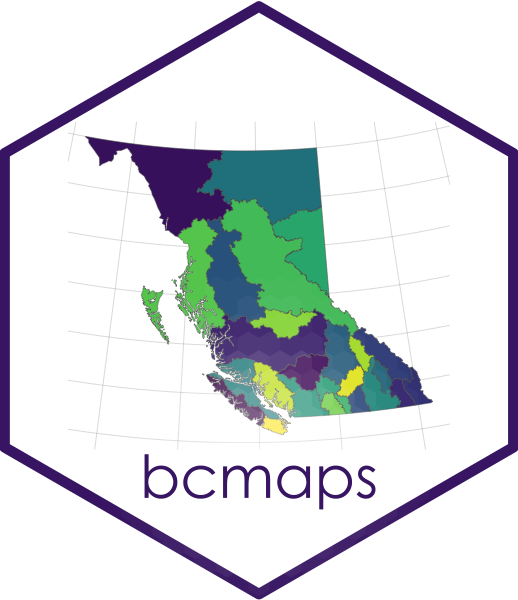
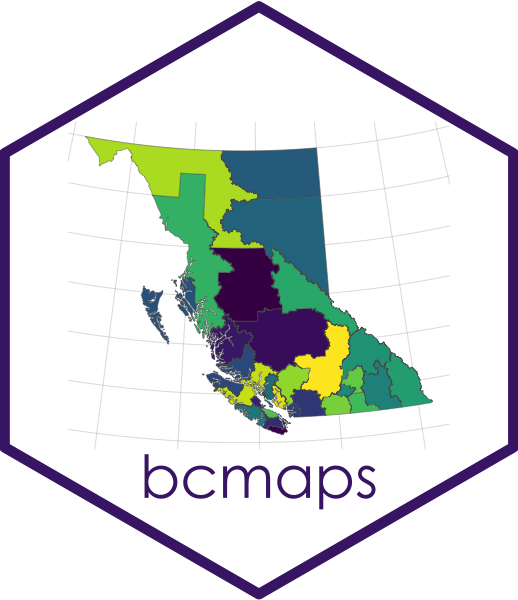
Use Regional Districts in sticker

Changed region(s): [[0.1544, 0.21, 0.834, 0.72], [0.278, 0.48, 0.3089, 0.54], [0.3089, 0.54, 0.3398, 0.57]]

diff --git a/README.md b/README.md
@@ -68,6 +68,25 @@ available_layers()
 #> 16    watercourses_5M       British Columbia watercourses at 1:5M scale.
 #> 17         watersheds  British Columbia Hydrometric Watershed Boundaries
 #> 18      wsc_drainages      Water Survey of Canada Sub-Sub-Drainage Areas
+#>     shortcut_function
+#> 1            airzones
+#> 2            bc_bound
+#> 3       bc_bound_hres
+#> 4        ecoprovinces
+#> 5          ecoregions
+#> 6         gw_aquifers
+#> 7          hydrozones
+#> 8      municipalities
+#> 9            nr_areas
+#> 10       nr_districts
+#> 11         nr_regions
+#> 12 regional_districts
+#> 13    water_districts
+#> 14    water_precincts
+#> 15   watercourses_15M
+#> 16    watercourses_5M
+#> 17         watersheds
+#> 18      wsc_drainages
 ```
 
 To load any of them, simply type `get_layer('layer_name')`, where `'layer_name'` is the name of the layer of interest. Then you can use the data as you would any `sf` or `Spatial` object:
